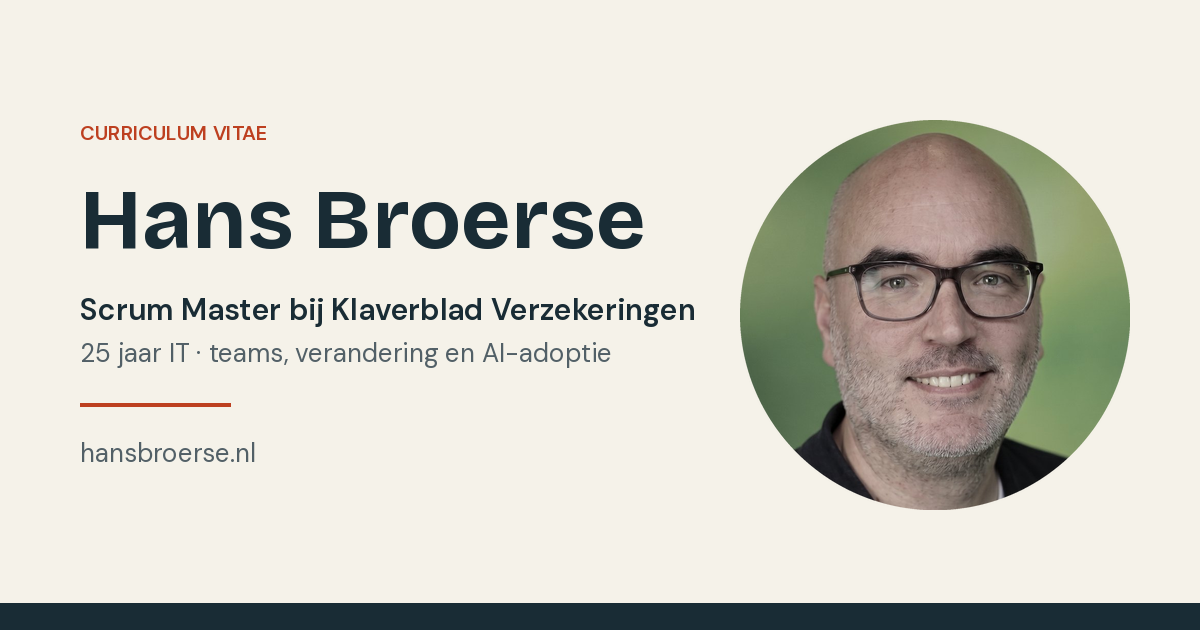
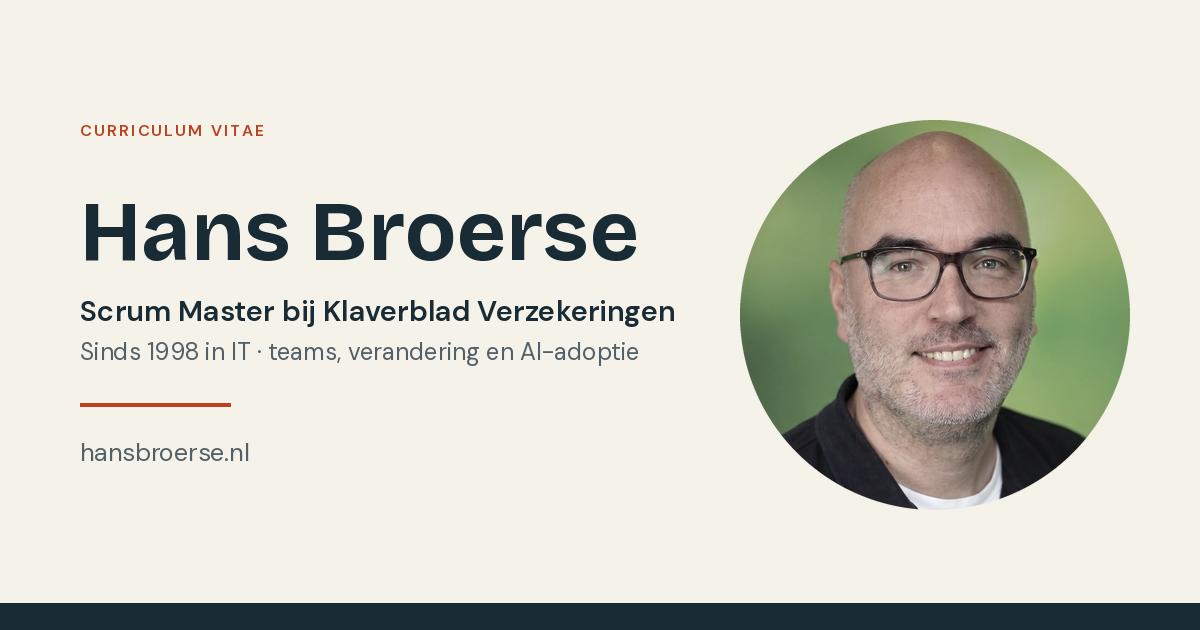
Sync site content with concept CV v3 and replace the portrait
Textual update only. No changes to styles.css, no new components,
no design changes.

Facts corrected: Agile roles since 2011 rather than 2014, "since 1998"
instead of "ruim 25 jaar", and five teams instead of "meerdere teams".

Content added: the low trust in Scrum on arrival, the rollout across five
teams, the Jira way of working, the SAFe workshops, team Data, the two
Q-Delft numbers, and a fourth work item for project WINK with the weekly
store workshops. Work items are now reverse chronological.

The AI section now covers the own server, building with AI assistants,
local models and speech synthesis, producing professional Dutch voices
for an AI voice platform, and Copilot within the frameworks that apply at
work. Home Assistant removed and ADKAR reduced to "familiar with".

Portrait and share image regenerated from a new professional photo, using
the same crop, the same muted saturation and the same share-image layout.

Claude-Session: https://claude.ai/code/session_01STTHd2UArqwX9VNGThW3xY

diff --git a/index.html b/index.html
@@ -4,12 +4,12 @@
   <meta charset="utf-8">
   <meta name="viewport" content="width=device-width, initial-scale=1">
   <title>Hans Broerse | Scrum Master · teams, verandering en AI-adoptie</title>
-  <meta name="description" content="Hans Broerse, Scrum Master bij Klaverblad Verzekeringen. Sinds 1998 in IT, sinds 2014 in Agile-rollen. Teambegeleiding, facilitatie en verandering, met vier actuele Scrum.org-certificeringen.">
+  <meta name="description" content="Hans Broerse, Scrum Master bij Klaverblad Verzekeringen. Sinds 1998 in IT, sinds 2011 in Agile-rollen. Vijf teams opgezet en begeleid, facilitatie en verandering, met vier actuele Scrum.org-certificeringen.">
   <meta name="robots" content="index, follow">
   <meta name="author" content="Hans Broerse">
   <meta name="theme-color" content="#f5f2e9">
   <meta property="og:title" content="Hans Broerse | Scrum Master · teams, verandering en AI-adoptie">
-  <meta property="og:description" content="Scrum Master bij Klaverblad Verzekeringen. Sinds 1998 in IT, sinds 2014 in Agile-rollen. Teambegeleiding, facilitatie en verandering.">
+  <meta property="og:description" content="Scrum Master bij Klaverblad Verzekeringen. Sinds 1998 in IT, sinds 2011 in Agile-rollen. Vijf teams opgezet en begeleid, facilitatie en verandering.">
   <meta property="og:type" content="profile">
   <meta property="og:url" content="https://hansbroerse.nl/">
   <meta property="og:site_name" content="Hans Broerse">
@@ -41,7 +41,7 @@
     "address": {"@type": "PostalAddress", "addressLocality": "Zoetermeer", "addressCountry": "NL"},
     "sameAs": ["https://www.linkedin.com/in/hans-broerse-25328b5/"],
     "knowsLanguage": ["nl", "en"],
-    "knowsAbout": ["Scrum", "Agile coaching", "Teamfacilitatie", "Verandermanagement", "Product ownership", "Businessanalyse", "Generatieve AI"],
+    "knowsAbout": ["Scrum", "Agile coaching", "Teamfacilitatie", "Verandermanagement", "AI-adoptie", "Product ownership", "Businessanalyse", "Generatieve AI"],
     "alumniOf": {"@type": "CollegeOrUniversity", "name": "Hogeschool van Amsterdam"},
     "hasCredential": [
       {"@type": "EducationalOccupationalCredential", "name": "Professional Scrum Master - AI Essentials", "recognizedBy": {"@type": "Organization", "name": "Scrum.org"}},
@@ -70,7 +70,7 @@
       <div class="hero-copy">
         <p class="eyebrow"><span class="status-dot" aria-hidden="true"></span> Scrum Master bij Klaverblad Verzekeringen · Zoetermeer</p>
         <h1 id="hero-title">Nieuwe technologie<br><span class="underlined">werkbaar maken.</span></h1>
-        <p class="hero-intro">Sinds 1998 werk ik in IT, sinds 2014 in Agile-rollen. Ik begeleid teams bij nieuwe manieren van werken en vertaal complexe techniek naar keuzes waar mensen mee verder kunnen. Die ervaring zet ik nu gericht in voor AI-adoptie.</p>
+        <p class="hero-intro">Sinds 1998 werk ik in IT, sinds 2011 in Agile-rollen. Bij Klaverblad zette ik vijf teams op en begeleidde ik ze bij nieuwe manieren van werken. Complexe techniek vertaal ik naar keuzes waar mensen mee verder kunnen. Die ervaring zet ik nu gericht in voor AI-adoptie.</p>
         <p class="print-contact">hansb1980@gmail.com · linkedin.com/in/hans-broerse-25328b5 · hansbroerse.nl · Zoetermeer</p>
         <div class="hero-actions">
           <a class="button" href="#profiel">Bekijk mijn profiel <span aria-hidden="true">↓</span></a>
@@ -86,8 +86,8 @@
       <h2 class="eyebrow" id="kort-title">Profiel in het kort</h2>
       <dl>
         <div><dt>In IT sinds</dt><dd>1998</dd></div>
-        <div><dt>Agile-rollen sinds</dt><dd>2014</dd></div>
-        <div><dt>Bij Klaverblad</dt><dd>7 jaar</dd></div>
+        <div><dt>Agile-rollen sinds</dt><dd>2011</dd></div>
+        <div><dt>Bij Klaverblad</dt><dd>7 jaar · 5 teams</dd></div>
         <div><dt>Scrum.org-certificeringen</dt><dd>4 actueel</dd></div>
         <div><dt>Sectoren</dt><dd>Verzekeren, retail, publiek</dd></div>
       </dl>
@@ -107,12 +107,12 @@
     <section class="profile-section wrap section" id="profiel" aria-labelledby="profile-title">
       <div class="section-label"><span>01 / Profiel</span><p>Techniek begrijpen, mensen meenemen, verandering laten landen.</p></div>
       <div class="section-body">
-        <h2 id="profile-title">Ruim 25 jaar tussen techniek<br><span class="muted-heading">en de mensen die ermee werken.</span></h2>
+        <h2 id="profile-title">Sinds 1998 tussen techniek<br><span class="muted-heading">en de mensen die ermee werken.</span></h2>
         <div class="profile-columns">
           <p class="large-copy">Mijn loopbaan begon bij de helpdesk. Daar leerde ik luisteren, doorvragen en technische problemen begrijpelijk maken. Dat is nog steeds de kern van mijn werk.</p>
           <div>
             <p>Via applicatiebeheer, testcoördinatie en informatieanalyse groeide ik door naar Product Owner en Scrum Master. Ik ken het werk achter een idee en de samenwerking die nodig is om het in de praktijk te krijgen.</p>
-            <p>Bij Klaverblad begeleid ik meerdere softwareontwikkelingsteams. Ik faciliteer hun overleggen, voer verbeteringen in de werkwijze door en help teams, Product Owners en leidinggevenden om tot werkbare afspraken te komen. Zeven jaar in dezelfde organisatie betekent ook dat ik weet hoe besluitvorming hier loopt en waar verandering blijft steken.</p>
+            <p>Bij Klaverblad zette ik in zeven jaar vijf softwareontwikkelteams op en begeleidde ik ze; op dit moment team AOV Claims en team Data. Ik faciliteer hun overleggen, voer verbeteringen in de werkwijze door en help teams, Product Owners en leidinggevenden om tot werkbare afspraken te komen. Zeven jaar in dezelfde organisatie betekent ook dat ik weet hoe besluitvorming hier loopt en waar verandering blijft steken.</p>
           </div>
         </div>
         <div class="strengths">
@@ -132,10 +132,32 @@
           <div class="work-meta"><span>Klaverblad Verzekeringen</span><span>Scrum Master · 2019 → heden</span></div>
           <div class="work-content">
             <h3>De Agile werkwijze<br>van opzet naar praktijk.</h3>
-            <p>Als Scrum Master begeleid ik meerdere softwareontwikkelingsteams. Ik hielp de Agile werkwijze opzetten en werk aan de verdere verbetering ervan: vaste cadans, duidelijker backlogwerk en retrospectives die daadwerkelijk tot aanpassingen leiden. Daarnaast ben ik assetmanager voor Jira en sinds 2026 lid van de ondernemingsraad.</p>
+            <p>Toen ik begon was het vertrouwen in Scrum laag en was de werkwijze in verval geraakt. Ik heb die stap voor stap opnieuw neergezet, verbeterd en over vijf teams uitgerold: vaste cadans, duidelijker backlogwerk en retrospectives die daadwerkelijk tot aanpassingen leiden. Als assetmanager voor Jira legde ik die werkwijze vast voor de softwareontwikkelteams, inclusief uitleg en begeleiding. Bij de invoering van SAFe gaf ik workshops en bouwde ik mee. Sinds 2026 begeleid ik team Data, dat data uit alle systemen verzamelt en dashboards bouwt voor de business, en ben ik lid van de ondernemingsraad.</p>
             <dl class="work-outcome">
-              <div><dt>Resultaat</dt><dd>De Agile werkwijze is in meerdere teams van invoering naar vaste praktijk gegaan.</dd></div>
+              <div><dt>Resultaat</dt><dd>De Agile werkwijze ging in vijf teams van invoering naar vaste praktijk.</dd></div>
               <div><dt>Relevantie</dt><dd>Dagelijkse ervaring met teambegeleiding, verandering en de organisatie van Klaverblad zelf.</dd></div>
+            </dl>
+          </div>
+        </article>
+        <article class="work-item">
+          <div class="work-meta"><span>Q-Delft / Netcompany</span><span>Scrum Master · 2018 → 2019</span></div>
+          <div class="work-content">
+            <h3>Een vastgelopen project<br>weer op koers.</h3>
+            <p>Voor Koninklijke Onderscheidingen en lintjes.nl kwam ik als Scrum Master op een project dat niet liep. Ik heb Agile werken opnieuw onder de aandacht gebracht, het ritme hersteld en de samenwerking tussen team en opdrachtgever weer op gang gebracht. De demovoorbereiding bracht ik terug van bijna twee dagen met het hele team naar een paar uur voor één medewerker, en het team groeide naar ruim twintig mensen over meerdere scrumteams.</p>
+            <dl class="work-outcome">
+              <div><dt>Resultaat</dt><dd>De ontwikkelsnelheid kwam ruim boven het afgesproken niveau en de eerste versie ging volgens planning in productie.</dd></div>
+              <div><dt>Relevantie</dt><dd>Werken aan een gezamenlijke aanpak, juist als er scepsis is en bijsturing nodig is.</dd></div>
+            </dl>
+          </div>
+        </article>
+        <article class="work-item">
+          <div class="work-meta"><span>Albert Heijn / Ahold Delhaize</span><span>Scrum Master · 2017 → 2018</span></div>
+          <div class="work-content">
+            <h3>Winkelmedewerkers aan tafel<br>in plaats van erover praten.</h3>
+            <p>Bij de vervanging van de Albert Heijn-winkelapplicaties zette ik een geheel nieuw scrumteam op en organiseerde ik wekelijkse workshops met key-medewerkers uit de winkels. Daar haalden we requirements en user stories op en toetsten we wireframes in de winkel, voordat er iets gebouwd werd.</p>
+            <dl class="work-outcome">
+              <div><dt>Resultaat</dt><dd>De kanteling van &ldquo;het hoofdkantoor bedenkt hoe het winkelpersoneel moet werken&rdquo; naar samen ontwerpen met de mensen die ermee werken.</dd></div>
+              <div><dt>Relevantie</dt><dd>Workshops met eindgebruikers als manier om draagvlak te bouwen voordat iets wordt uitgerold.</dd></div>
             </dl>
           </div>
         </article>
@@ -147,17 +169,6 @@
             <dl class="work-outcome">
               <div><dt>Resultaat</dt><dd>De Etos-klantenkaart, loyaliteitsapp en persoonlijke kortingen zijn landelijk in gebruik genomen.</dd></div>
               <div><dt>Relevantie</dt><dd>Nieuwe technologie vertalen naar concrete toepassingen, en pilots gebruiken om te leren voordat je opschaalt.</dd></div>
-            </dl>
-          </div>
-        </article>
-        <article class="work-item">
-          <div class="work-meta"><span>Q-Delft / Netcompany</span><span>Scrum Master · 2018 → 2019</span></div>
-          <div class="work-content">
-            <h3>Een vastgelopen project<br>weer op koers.</h3>
-            <p>Voor Koninklijke Onderscheidingen en lintjes.nl kwam ik als Scrum Master op een project dat niet liep. Ik heb Agile werken opnieuw onder de aandacht gebracht, het ritme hersteld en de samenwerking tussen team en opdrachtgever weer op gang gebracht.</p>
-            <dl class="work-outcome">
-              <div><dt>Resultaat</dt><dd>Het project kwam terug op koers en is afgerond, met Agile werken terug in de dagelijkse praktijk.</dd></div>
-              <div><dt>Relevantie</dt><dd>Werken aan een gezamenlijke aanpak, juist als er scepsis is en bijsturing nodig is.</dd></div>
             </dl>
           </div>
         </article>
@@ -219,8 +230,9 @@
             <p>Ik weet hoe je een nieuwe werkwijze introduceert bij mensen die het druk hebben en er niet om gevraagd hebben. Wat je moet uitleggen, waar mensen afhaken en waarom klein beginnen bijna altijd beter werkt dan een brede uitrol. Als lid van de ondernemingsraad weet ik bovendien hoe belangrijk transparantie en draagvlak zijn wanneer technologie het werk van collega's raakt.</p>
           </div>
           <div>
-            <p>Buiten mijn werk gebruik ik generatieve AI dagelijks. Ik onderhoud eigen machineleesbare kennisbanken, automatiseer thuis met Home Assistant en Node-RED, en experimenteer met lokale modellen. Wat ik daaruit meeneem gaat niet over de techniek, maar over adoptie: wat er nodig is voordat iemand een hulpmiddel echt gaat gebruiken.</p>
-            <p>Met PSM AI Essentials heb ik die praktijk aangevuld met een gestructureerde basis. Wat ik nog niet heb, ben ik aan het opbouwen: ik verdiep me in ADKAR als methodiek voor adoptie en in de manier waarop AI-assistenten binnen een verzekeraar veilig en zinvol landen.</p>
+            <p>Buiten mijn werk gebruik ik generatieve AI dagelijks en bouw ik er zelf mee. Ik draai een eigen server met eigen tools, programmeer daar met AI-assistenten, onderhoud machineleesbare kennisbanken en experimenteer met lokale modellen en lokale spraaksynthese. In een vroeg stadium produceerde ik in mijn eigen geluidsstudio professionele Nederlandse stemmen voor een AI-stemplatform, inclusief de hulpmiddelen om ze natuurlijk te laten klinken.</p>
+            <p>Op mijn werk gebruik ik Copilot binnen de kaders die daar gelden. Juist dat verschil is bruikbaar: ik weet wat er technisch kan, ik begrijp waarom een verzekeraar niet alles openzet, en ik weet hoe je mensen binnen die kaders toch iets in handen geeft waar ze echt wat aan hebben.</p>
+            <p>Met PSM AI Essentials heb ik die praktijk aangevuld met een gestructureerde basis. Ik ben bekend met ADKAR als adoptiemethodiek, zonder daarin getraind te zijn, en werk in de praktijk met Agile en Scrum.</p>
           </div>
         </div>
       </div>
@@ -234,7 +246,7 @@
           <button class="text-link print-button" type="button" onclick="window.print()">Print of bewaar als PDF <span aria-hidden="true">→</span></button>
         </div>
         <ol class="timeline">
-          <li><span class="years">2019 <span>→ heden</span></span><div><h3>Klaverblad Verzekeringen</h3><p class="role">Scrum Master</p><p>Meerdere softwareontwikkelingsteams, verbetering van de Agile werkwijze en assetmanagement voor Jira. Lid van de ondernemingsraad sinds 2026.</p></div><span class="current-label">Nu</span></li>
+          <li><span class="years">2019 <span>→ heden</span></span><div><h3>Klaverblad Verzekeringen</h3><p class="role">Scrum Master</p><p>Vijf softwareontwikkelteams opgezet en begeleid, waaronder team AOV Claims en team Data. Verbetering van de Agile werkwijze en assetmanagement voor Jira. Lid van de ondernemingsraad sinds 2026.</p></div><span class="current-label">Nu</span></li>
           <li><span class="years">2018 <span>→ 2019</span></span><div><h3>Q-Delft / Netcompany</h3><p class="role">Scrum Master</p><p>Koninklijke Onderscheidingen en lintjes.nl. Projectbegeleiding en herintroductie van Agile werken.</p></div></li>
           <li><span class="years">2017 <span>→ 2018</span></span><div><h3>H. Broerse Consultancy</h3><p class="role">Eigen onderneming · Scrum Master</p><p>Onder meer voor Ahold Delhaize, bij de vervanging van de Albert Heijn-winkelapplicaties door OutSystems-applicaties.</p></div></li>
           <li><span class="years">2006 <span>→ 2018</span></span><div><h3>Albert Heijn / Ahold Delhaize <span class="entry-tag">Klantperiode</span></h3><p class="role">Testcoördinator → Informatieanalist → Product Owner → Scrum Master</p><p>Winkel-IT, testprocessen met een offshore team, introductie van Scrum en innovatiepilots. Opdrachten uitgevoerd via Capgemini, via Atos en vanaf 2017 als zelfstandige. Deze klantperiode overlapt daarom met de regel hierboven.</p></div></li>

diff --git a/docs/content_sources.md b/docs/content_sources.md
@@ -57,3 +57,31 @@ De drie Credly-bestanden bevatten oorspronkelijk een ingebakken Credly-interface
 ## Portret en deelafbeelding
 
 `assets/portret.jpg` is bijgesneden uit een eigen professionele portretfoto en gedempt in verzadiging, zodat de achtergrond niet botst met het papierpalet. `assets/og-image.png` is lokaal gegenereerd uit dat portret met de eigen huisstijlkleuren en lettertypen, en dient als deelafbeelding voor LinkedIn, Teams en WhatsApp.
+
+## Herziening 9 september 2026
+
+De pagina is tekstueel gelijkgetrokken met `concept_cv.md` versie 3 uit `~/Projects/Sollicitatie`, opgesteld uit een interview met Hans en aangescherpt met vier onafhankelijke AI-reviews. Het ontwerp is niet gewijzigd.
+
+Nieuwe of gecorrigeerde feiten en hun onderbouwing:
+
+- "Agile-rollen sinds 2011" vervangt "sinds 2014". Het CV uit 2019 en de cv-brain plaatsen de eerste Scrum Master-rol bij Albert Heijn in 2011; 2014 was de start van het Product Ownership bij Ahold Innovation.
+- "Sinds 1998" vervangt "ruim 25 jaar" in de profielkop. De loopbaan begint in 1998, dus achtentwintig jaar.
+- "Vijf teams" vervangt "meerdere teams". Bevestigd door Hans op 9 september 2026: vijf teams opgezet en begeleid in zeven jaar bij Klaverblad. Het aantal teams waarover de Jira-werkwijze is uitgezet is een ander, waarschijnlijk hoger getal en staat daarom zonder cijfer.
+- Team AOV Claims en team Data zijn toegevoegd als de teams van dit moment. Het team heet op papier Data en AI, maar is in de praktijk het Data team; de site houdt "team Data" aan.
+- Het lage vertrouwen in Scrum bij binnenkomst is toegevoegd, zonder de externe partij te noemen die daaraan bijdroeg. Dat detail staat wel in het sollicitatiedocument, maar leest publiek als afgeven op een voorganger.
+- De SAFe-invoering is toegevoegd als workshops geven en meebouwen. Dat het programma niet is doorgezet, staat niet op de site; het voegt publiek niets toe.
+- De twee Q-Delft-cijfers komen letterlijk uit het CV uit 2019: demovoorbereiding van bijna twee dagen met het hele team naar een paar uur voor een medewerker, en een team dat naar ruim twintig personen groeide. De productiegang van de eerste versie is door Hans bevestigd; het CV uit 2019 schreef die nog in de toekomende tijd.
+- Het WINK-werkitem (2017-2018) komt uit het CV uit 2019: nieuw scrumteam, wekelijkse workshops met key-medewerkers uit de Albert Heijn-winkels, wireframe-proeven in winkels, en de kanteling weg van top-down bedachte werkwijzen.
+- De AI-praktijk is uitgebreid met eigen server, programmeren met AI-assistenten, lokale modellen en lokale spraaksynthese, en met het produceren van professionele Nederlandse stemmen voor een AI-stemplatform. Home Assistant is verwijderd: Hans gebruikt dat juist zo min mogelijk.
+- Copilot binnen de geldende kaders is toegevoegd, met de redenering waarom een verzekeraar niet alles openzet. Dat dekt de vacature-eis over verantwoord en compliant AI-gebruik af.
+- ADKAR is teruggebracht van "ik verdiep me erin" naar "bekend mee, zonder daarin getraind te zijn".
+
+Bewust niet gepubliceerd:
+
+- De positie van de stem in de Nederlandse ElevenLabs-lijst en het aantal gegenereerde credits. Die staan in het sollicitatiedocument voor HR, maar dit is een openbare site en de stem is van iemand anders. Met de positie erbij is die persoon te vinden.
+
+Openstaand punt uit de vorige ronde dat blijft staan: het aantal SAFe-workshops en het aantal deelnemers is nog niet bekend, dus workshops staan zonder aantal.
+
+## Portret, herziening 9 september 2026
+
+`assets/portret.jpg` is opnieuw gemaakt uit een nieuwe professionele portretfoto van 9 september 2026, met dezelfde kadrering en dezelfde gedempte verzadiging als de vorige versie. De achtergrondtint is gemeten en gematcht (hue 94, verzadiging 0,20 tegen 0,38 in het origineel) zodat de foto niet met het papierpalet vloekt. `assets/og-image.png` is opnieuw gegenereerd met dezelfde posities, kleuren en lettertypen als de vorige versie; alleen de foto en de ondertitelregel zijn veranderd. De vervangen bestanden en de bronfoto staan onder `versions/assets-pre-2026-09-09/`.

diff --git a/docs/development_log.md b/docs/development_log.md
@@ -1,5 +1,37 @@
 # Development Log
 
+## 2026-09-09
+
+Tekstuele synchronisatie met het concept-CV (versie 3) uit `~/Projects/Sollicitatie/concept_cv.md`, dat is opgebouwd uit een interview en aangescherpt met vier onafhankelijke AI-reviews. Het ontwerp is bewust ongewijzigd gebleven: geen wijzigingen in `styles.css`, geen nieuwe componenten, alleen bestaande patronen en teksten.
+
+Feitelijke correcties:
+
+- "Sinds 2014 in Agile-rollen" is overal "sinds 2011" geworden. Hans was in 2011 al Scrum Master bij Albert Heijn; de oude formulering verkocht hem drie jaar te kort op precies de ervaring die de doelfunctie vraagt.
+- "Ruim 25 jaar" in de profielkop is vervangen door "Sinds 1998", omdat de loopbaan in 1998 begint en dat inmiddels achtentwintig jaar is.
+- "Meerdere softwareontwikkelingsteams" is overal "vijf teams" geworden, door Hans bevestigd op 9 september 2026. De feitenstrip toont nu "7 jaar · 5 teams".
+
+Inhoudelijke aanvullingen:
+
+- Klaverblad-werkitem herschreven: het lage vertrouwen in Scrum bij binnenkomst, de uitrol over vijf teams, de Jira-werkwijze voor de softwareontwikkelteams, de SAFe-workshops en team Data met dashboards voor de business.
+- Q-Delft-werkitem aangevuld met de twee cijfers uit het CV uit 2019: demovoorbereiding van bijna twee dagen naar een paar uur voor een medewerker, en het team dat naar ruim twintig mensen groeide. Het resultaat noemt nu de ontwikkelsnelheid en de productiegang in plaats van een algemene formulering.
+- Vierde werkitem toegevoegd voor project WINK bij Albert Heijn (2017-2018): wekelijkse workshops met winkelmedewerkers en wireframe-proeven in de winkel. Dit is het sterkste bewijs voor workshops met eindgebruikers en draagvlak opbouwen, en ontbrak op de site.
+- Werkitems staan nu omgekeerd chronologisch. Met vier items was de oude volgorde (2019, 2014, 2018, 2017) niet meer te volgen.
+- Sectie Richting herschreven: eigen server, programmeren met AI-assistenten, lokale modellen en lokale spraaksynthese; het produceren van professionele Nederlandse stemmen voor een AI-stemplatform; en Copilot binnen de kaders die op het werk gelden, expliciet gekoppeld aan waarom een verzekeraar niet alles openzet.
+- De vermelding van Home Assistant is verwijderd. Hans gebruikt dat juist zo min mogelijk en bouwt liever zelf.
+- "Ik verdiep me in ADKAR" is vervangen door "bekend met ADKAR, zonder daarin getraind te zijn". De oude formulering suggereerde een lopend leertraject dat er niet is.
+
+Beelden:
+
+- `assets/portret.jpg` vervangen door een uitsnede uit de nieuwe professionele portretfoto van 9 september 2026. Dezelfde kadrering en dezelfde gedempte verzadiging als de vorige versie, gemeten en gematcht op achtergrondtint (hue 94, verzadiging 0,20) zodat de foto niet met het papierpalet vloekt.
+- `assets/og-image.png` opnieuw gegenereerd met dezelfde opmaak, posities en kleuren als de vorige versie, met de nieuwe foto en met "25 jaar IT" vervangen door "Sinds 1998 in IT".
+- De vervangen bestanden en de originele bronfoto staan onder `versions/assets-pre-2026-09-09/`.
+
+Bewust niet overgenomen uit het concept-CV:
+
+- De positie van de ElevenLabs-stem in de Nederlandse lijst en het aantal gegenereerde credits. Dat staat wel in het sollicitatiedocument, maar dit is een openbare site en de stem is van iemand anders. De cijfers maken die persoon vindbaar. De site noemt alleen dat Hans professionele Nederlandse stemmen voor een AI-stemplatform produceerde.
+
+Verificatie: lokaal geserveerd op 127.0.0.1:8765 en met Chromium gerenderd op 1440 en 390 pixels breed. Volledige pagina beoordeeld op beide breedtes, HTML-tags gecontroleerd op balans, alle ankers verwijzen naar bestaande doelen, geen resterende verwijzingen naar de oude feiten.
+
 ## 2026-09-08 (tweede ronde)
 
 Doorgevoerd op basis van vier onafhankelijke reviews (Claude, Codex, Gemini, Muse) met als doel een volwassener, zakelijker uitstraling voor de interne sollicitatie.

diff --git a/README.md b/README.md
@@ -39,7 +39,7 @@ The September 2026 design uses warm paper, dark ink, orange accents and self-hos
 The design was deliberately made more formal in a second September 2026 pass: no rotated elements, no decorative tape effect, factual section headings rather than slogans, and a single accent colour. Keep it that way when editing.
 
 - `assets/` - portrait, share image, certification badges, fonts, font licenses and favicon
-- `versions/` - originals of replaced assets
+- `versions/` - originals of replaced assets (portrait and share image per revision date)
 - `docs/content_sources.md` - factual scope, source notes and asset attribution
 
 Preview locally with `python -m http.server 8765 --bind 127.0.0.1`. Check desktop and mobile layouts, anchor links, keyboard access, loaded assets and print preview before publishing. The print button opens the browser print dialog, where visitors can save a PDF.
